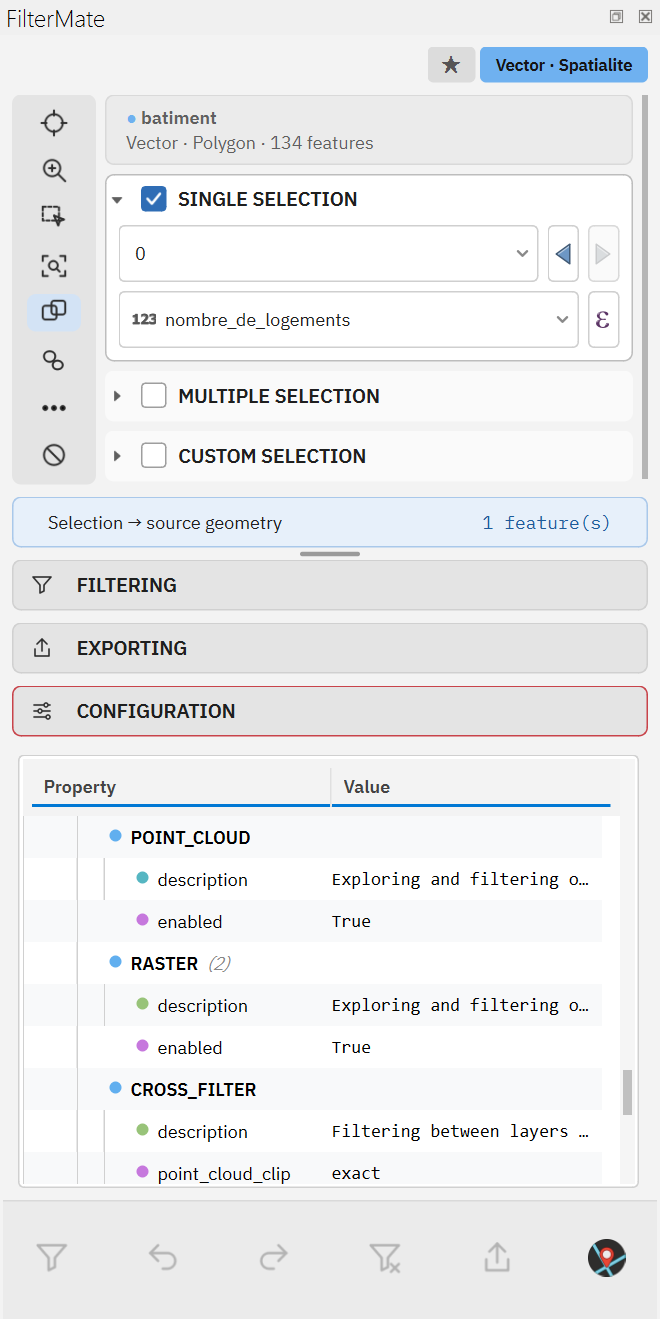
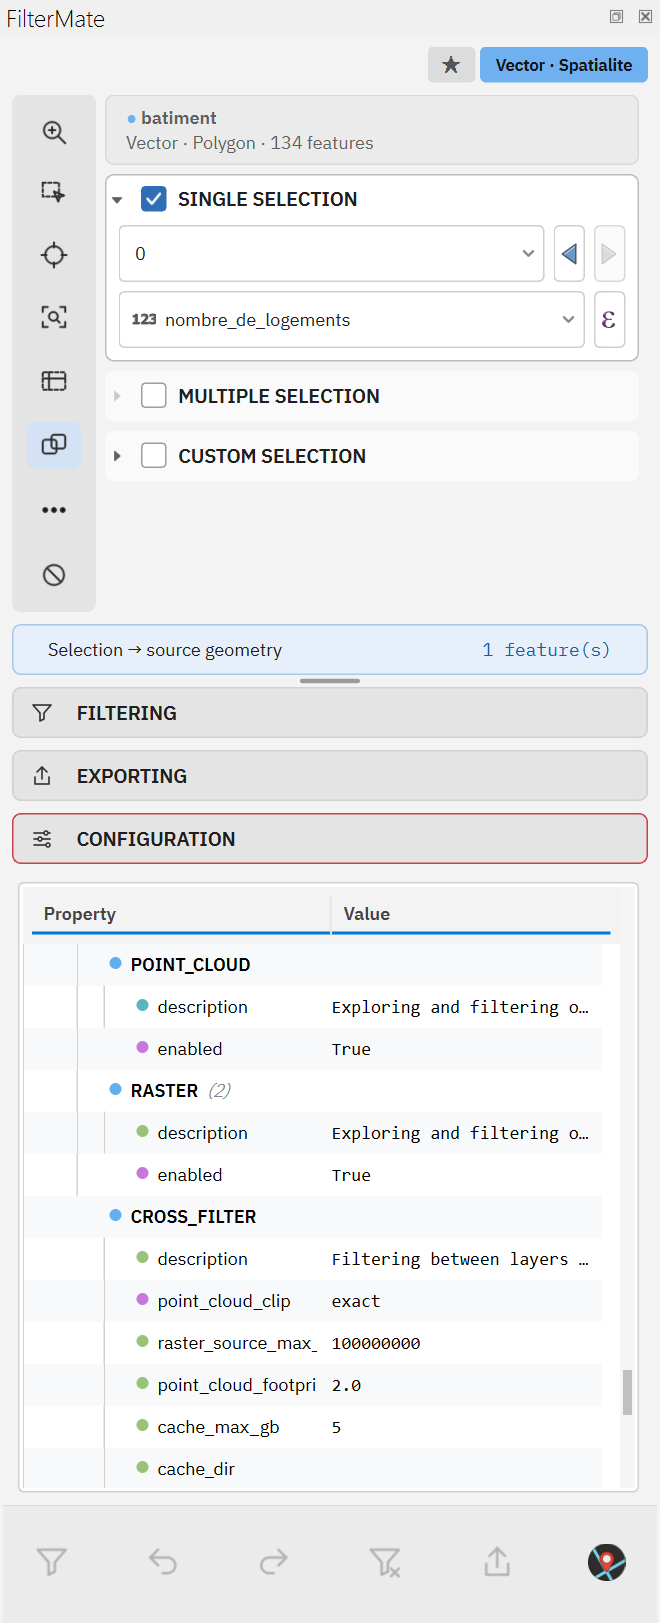
EXPLORING rail: one button order for vector, raster and point cloud layers
Zoom and the eye (map selection kept in sync / preview) are always the first two buttons, the more menu and
the reset the last two, and the Identify button (class pipette of a point cloud) is third on a vector layer
and a point cloud alike. In between, the tools clicked on the map go from the point to the area (pick,
object, similar objects, value pipette, zone), then the link. The rail spreader sorts the buttons by
RAIL_ORDER, so the inserted kind tools follow it too. Guide tables and panel screenshots updated.

diff --git a/website/guide.fr.html b/website/guide.fr.html
@@ -242,15 +242,17 @@
     </p>
 
     <h3>La colonne de boutons Exploring</h3>
-    <p>Les boutons verticaux à gauche des blocs de sélection, de haut en bas :</p>
+    <p>Les boutons verticaux à gauche des blocs de sélection, de haut en bas. Rasters et nuages de points gardent le même cadre : Zoom et l'aperçu en tête, leurs outils de carte ensuite, puis le lien, More et Reset.</p>
     <div class="table-wrap">
     <table>
         <tr><th>Bouton</th><th>Effet</th></tr>
-        <tr><td><strong>Identify</strong></td><td>Identifie l'entité sélectionnée sur la carte (comme l'outil d'identification de QGIS).</td></tr>
         <tr><td><strong>Zoom</strong></td><td>Zoome le canevas sur la ou les entités sélectionnées.</td></tr>
         <tr><td><strong>Selecting</strong> (bascule)</td><td>Reflète votre sélection FilterMate en sélection QGIS sur la carte, et inversement : sélectionner sur le canevas met à jour les blocs Exploring.</td></tr>
+        <tr><td><strong>Identify</strong></td><td>Identifie l'entité sélectionnée sur la carte (comme l'outil d'identification de QGIS).</td></tr>
         <tr><td><strong>Tracking</strong> (bascule)</td><td>Zoome automatiquement à chaque changement d'entité sélectionnée.</td></tr>
+        <tr><td><strong>Zone</strong> (bascule)</td><td>Dessinez un rectangle, un polygone, une forme libre ou un cercle sur la carte (clic droit sur le bouton pour la forme) : les entités touchées sont sélectionnées.</td></tr>
         <tr><td><strong>Linking</strong> (bascule)</td><td>Garde les trois blocs de sélection synchronisés : changer de mode conserve les entités courantes.</td></tr>
+        <tr><td><strong>More</strong> (⋯)</td><td>Les outils de sélection de QGIS, la sélection par expression, inverser ou vider la sélection, la table attributaire de la sélection.</td></tr>
         <tr><td><strong>Reset</strong></td><td>Efface toutes les propriétés d'exploration mémorisées pour la couche (expression d'affichage, sélection, mode).</td></tr>
     </table>
     </div>

diff --git a/website/guide.html b/website/guide.html
@@ -243,15 +243,17 @@
     </p>
 
     <h3>The exploring rail</h3>
-    <p>The vertical buttons to the left of the selection boxes, from top to bottom:</p>
+    <p>The vertical buttons to the left of the selection boxes, from top to bottom. Rasters and point clouds keep the same frame: Zoom and the preview first, their own map tools next, then the link, More and Reset.</p>
     <div class="table-wrap">
     <table>
         <tr><th>Button</th><th>Effect</th></tr>
-        <tr><td><strong>Identify</strong></td><td>Identifies the selected feature on the map (same as the QGIS identify tool).</td></tr>
         <tr><td><strong>Zoom</strong></td><td>Zooms the map canvas to the selected feature(s).</td></tr>
         <tr><td><strong>Selecting</strong> (toggle)</td><td>Mirrors your FilterMate selection as a QGIS selection on the map, and the other way round: selecting on the canvas updates the Exploring boxes.</td></tr>
+        <tr><td><strong>Identify</strong></td><td>Identifies the selected feature on the map (same as the QGIS identify tool).</td></tr>
         <tr><td><strong>Tracking</strong> (toggle)</td><td>Auto-zooms every time the selected feature changes.</td></tr>
+        <tr><td><strong>Zone</strong> (toggle)</td><td>Draw a rectangle, polygon, freehand shape or circle on the map (right-click the button for the shape): the features it touches are selected.</td></tr>
         <tr><td><strong>Linking</strong> (toggle)</td><td>Keeps the three selection boxes in sync: switching mode carries the current features over.</td></tr>
+        <tr><td><strong>More</strong> (⋯)</td><td>The QGIS selection tools, select by expression, invert or clear the selection, the attribute table of the selection.</td></tr>
         <tr><td><strong>Reset</strong></td><td>Clears every exploring property stored for the layer (display expression, selection, mode).</td></tr>
     </table>
     </div>

diff --git a/ui/layout/mockup_layout.py b/ui/layout/mockup_layout.py
@@ -159,6 +159,47 @@ def rail_plan(visible) -> list:
     return plan
 
 
+# One order for the EXPLORING rail of the three layer kinds (2026-10-26), a kind showing only its own buttons:
+# the view of the selection first (zoom, then the eye: the map selection kept in sync on a vector layer, the
+# preview on a raster or a point cloud), then the tools clicked on the map, from the point to the area (pick,
+# object, similar objects, value pipette, zone), then the link, the "more" menu and the reset. Zoom and the eye
+# are always the first two buttons, the menu and the reset the last two, and the Identify button (class pipette
+# of a point cloud) is third on a vector layer and on a point cloud alike.
+RAIL_ORDER = (
+    'pushButton_exploring_zoom',
+    'pushButton_checkable_exploring_selecting',
+    'pushButton_exploring_identify',
+    'pushButton_checkable_exploring_tracking',
+    'pushButton_checkable_exploring_raster_pipette',
+    'pushButton_checkable_exploring_raster_detector',
+    'pushButton_checkable_exploring_point_cloud_object',
+    'pushButton_checkable_exploring_raster_similar',
+    'pushButton_checkable_exploring_point_cloud_value_pipette',
+    'pushButton_checkable_exploring_raster_hover',
+    'pushButton_checkable_exploring_raster_zone',
+    'pushButton_checkable_exploring_point_cloud_zone',
+    'pushButton_checkable_exploring_vector_zone',
+    'pushButton_checkable_exploring_linking_widgets',
+    'pushButton_checkable_exploring_raster_link',
+    'pushButton_exploring_vector_more',
+    'pushButton_exploring_raster_more',
+    'pushButton_exploring_point_cloud_more',
+    'pushButton_exploring_point_cloud_profile',
+    'pushButton_exploring_point_cloud_3d',
+    'pushButton_exploring_reset_layer_properties',
+)
+_RAIL_RANK = {name: rank for rank, name in enumerate(RAIL_ORDER)}
+
+
+def rail_rank(names) -> list:
+    """Indexes of ``names`` (rail buttons in layout order) sorted by :data:`RAIL_ORDER`.
+
+    A button not listed keeps its place relative to its neighbours, before the "more" menus.
+    """
+    unlisted = _RAIL_RANK['pushButton_exploring_vector_more'] - 0.5
+    return sorted(range(len(names)), key=lambda index: (_RAIL_RANK.get(names[index], unlisted), index))
+
+
 def rail_floor(button_heights, gap: int) -> int:
     """Height under which the rail buttons would overlap: the shown buttons plus one gap around each."""
     heights = [int(h) for h in button_heights]
@@ -231,6 +272,7 @@ class _RailSpreader(QObject if QObject is not None else object):
             layout = self._layout
             items = [layout.itemAt(i) for i in range(layout.count())]
             buttons = [(item.widget(), item.alignment()) for item in items if item.widget() is not None]
+            buttons = [buttons[index] for index in rail_rank([button.objectName() for button, _ in buttons])]
             visible = [not button.isHidden() for button, _ in buttons]
             state = tuple((id(button), shown) for (button, _), shown in zip(buttons, visible))
             if state == self._state:

diff --git a/tests/unit/ui/layout/test_mockup_layout.py b/tests/unit/ui/layout/test_mockup_layout.py
@@ -42,6 +42,36 @@ def test_rail_plan_all_hidden():
     assert layout.rail_plan([]) == []
 
 
+def _rail(*names):
+    return [names[index] for index in layout.rail_rank(list(names))]
+
+
+def test_rail_order_is_shared_by_the_three_layer_kinds():
+    zoom, eye, identify = 'pushButton_exploring_zoom', 'pushButton_checkable_exploring_selecting', 'pushButton_exploring_identify'
+    more, reset = 'pushButton_exploring_{}_more', 'pushButton_exploring_reset_layer_properties'
+    tool = 'pushButton_checkable_exploring_{}'
+    # layout order of the dock: the .ui buttons, then the kind tools inserted after the link button
+    vector = _rail(identify, zoom, eye, tool.format('tracking'), tool.format('linking_widgets'),
+                   tool.format('vector_zone'), more.format('vector'), reset)
+    assert vector == [zoom, eye, identify, tool.format('tracking'), tool.format('vector_zone'),
+                      tool.format('linking_widgets'), more.format('vector'), reset]
+    raster = _rail(zoom, eye, tool.format('raster_pipette'), tool.format('raster_detector'),
+                   tool.format('raster_similar'), tool.format('raster_link'), more.format('raster'), reset)
+    assert raster == [zoom, eye, tool.format('raster_pipette'), tool.format('raster_detector'),
+                      tool.format('raster_similar'), tool.format('raster_link'), more.format('raster'), reset]
+    cloud = _rail(identify, zoom, eye, tool.format('point_cloud_object'), tool.format('point_cloud_value_pipette'),
+                  tool.format('point_cloud_zone'), more.format('point_cloud'), reset)
+    assert cloud == [zoom, eye, identify, tool.format('point_cloud_object'), tool.format('point_cloud_value_pipette'),
+                     tool.format('point_cloud_zone'), more.format('point_cloud'), reset]
+
+
+def test_rail_order_keeps_an_unlisted_button_before_the_menus():
+    names = ['pushButton_exploring_reset_layer_properties', 'pushButton_new_tool', 'pushButton_exploring_zoom',
+             'pushButton_exploring_vector_more']
+    assert _rail(*names) == ['pushButton_exploring_zoom', 'pushButton_new_tool', 'pushButton_exploring_vector_more',
+                             'pushButton_exploring_reset_layer_properties']
+
+
 def test_rail_floor_is_the_buttons_plus_one_gap_around_each():
     # Eight 36 px tools (vector rail, 2026-10-18): 288 + 9 gaps of 6 = 342, the height under which they overlap.
     assert layout.rail_floor([36] * 8, 6) == 342

diff --git a/README.md b/README.md
@@ -15,11 +15,11 @@ clipped around a church. The filters stay on the existing project layers, keep t
 and replayed from Processing or a script.
 
 <p align="center">
-  <img src="website/img/guide/fm5_vector_multiple.png?v=2" alt="FilterMate panel with a vector layer: several features ticked in the multiple selection, then the layers to filter" width="260">
+  <img src="website/img/guide/fm5_vector_multiple.png?v=3" alt="FilterMate panel with a vector layer: several features ticked in the multiple selection, then the layers to filter" width="260">
   &nbsp;
-  <img src="website/img/guide/fm5_raster_exploring.png?v=2" alt="FilterMate panel with a raster layer: band, value range and histogram, then the layers to filter" width="260">
+  <img src="website/img/guide/fm5_raster_exploring.png?v=3" alt="FilterMate panel with a raster layer: band, value range and histogram, then the layers to filter" width="260">
   &nbsp;
-  <img src="website/img/guide/fm5_pointcloud_exploring.png?v=2" alt="FilterMate panel with a LiDAR point cloud: classes and attribute ranges" width="260">
+  <img src="website/img/guide/fm5_pointcloud_exploring.png?v=3" alt="FilterMate panel with a LiDAR point cloud: classes and attribute ranges" width="260">
 </p>
 <p align="center"><em>The panel follows the current layer: several vector features ticked, a raster with its histogram, a LiDAR point cloud.</em></p>
 
